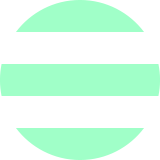
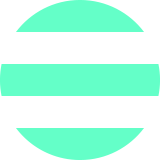
colorFix & sButtons

diff --git a/PixelArt/index.html b/PixelArt/index.html
@@ -70,17 +70,29 @@
                     <div id="framesCountS" class="sItem gray">
                         <div class="sText">Кількість кадрів</div>
                         <div class="counter"> 
-                            <div></div>
+                            <div class="counterB">&minus;</div>
+                            <div class="counterT">2</div>
+                            <div class="counterB plus">+</div>
                         </div>
                     </div>
                     <div id="plotPlatesS" class="sItem">
                         <div class="sText">Розмір кадру</div>
+                        <div class="counter"> 
+                            <div class="counterB">&minus;</div>
+                            <div class="counterT gray">2</div>
+                            <div class="counterB plus">+</div>
+                        </div>
                     </div>
                     <div id="borderRadiudS" class="sItem gray">
                         <div class="sText">Скруглення плиток</div>
+                        <div class="counter"> 
+                            <div class="counterB">&minus;</div>
+                            <div class="counterT">0</div>
+                            <div class="counterB plus">+</div>
+                        </div>
                     </div>
                     <div id="replayS" class="sItem">
-                        <div class="sText">Режим (1 - 2 - ...)</div>
+                        <div class="sText">Показ кадрів</div>
                     </div>
                 </div>
                 <div id="continueB" class="sItem">

diff --git a/PixelArt/css/main.css b/PixelArt/css/main.css
@@ -43,7 +43,7 @@ body {
     --gray: rgb(120, 120, 120);
     --blue: rgb(80, 180, 230); 
     --red: rgb(255, 100, 120);
-    --green: rgb(160, 255, 200);
+    --green: rgb(100, 255, 200);
     --yellow: rgb(244, 255, 142);
     --grayShadow: 0px 0px 40px rgba(120, 120, 120, .5);
 
@@ -142,15 +142,47 @@ body {
 .sText {
     display: table-cell;
     vertical-align: middle;
-    width: 65%;
-    padding: 0 5% 0 10%;
+    width: 70%;
+    padding: 0 5% 0 5%;
     text-align: left;
     /*float: left;*/
 }
 
 .counter {
-    width: 30%;
-    height: 35%;
+    display: table;
+    width: 80%;
+    height: 44%;
+    margin-top: 18%;
+    margin-left: 3%;
+}
+
+.counterB {
+    height: 100%;
+    width: 31%;
+    display: table-cell;
+    background-color: var(--red);
+    opacity: 0.7;
+    color: white;
+    border-radius: 20% 0 0 20%;
+    padding: 0 3%;
+    vertical-align: middle;
+}
+
+.counterT {
+    height: 100%;
+    width: 38%;
+    padding: 0 0 0 1%;
+    display: table-cell;
+    color: var(--gray);
+    background-color: white;
+    vertical-align: middle;
+}
+
+.plus {
+    border-radius: 0 20% 20% 0;
+    padding: 0 1% 0 0;
+    background-color: var(--green);
+    opacity: 1;
 }
 
 #continueB {
